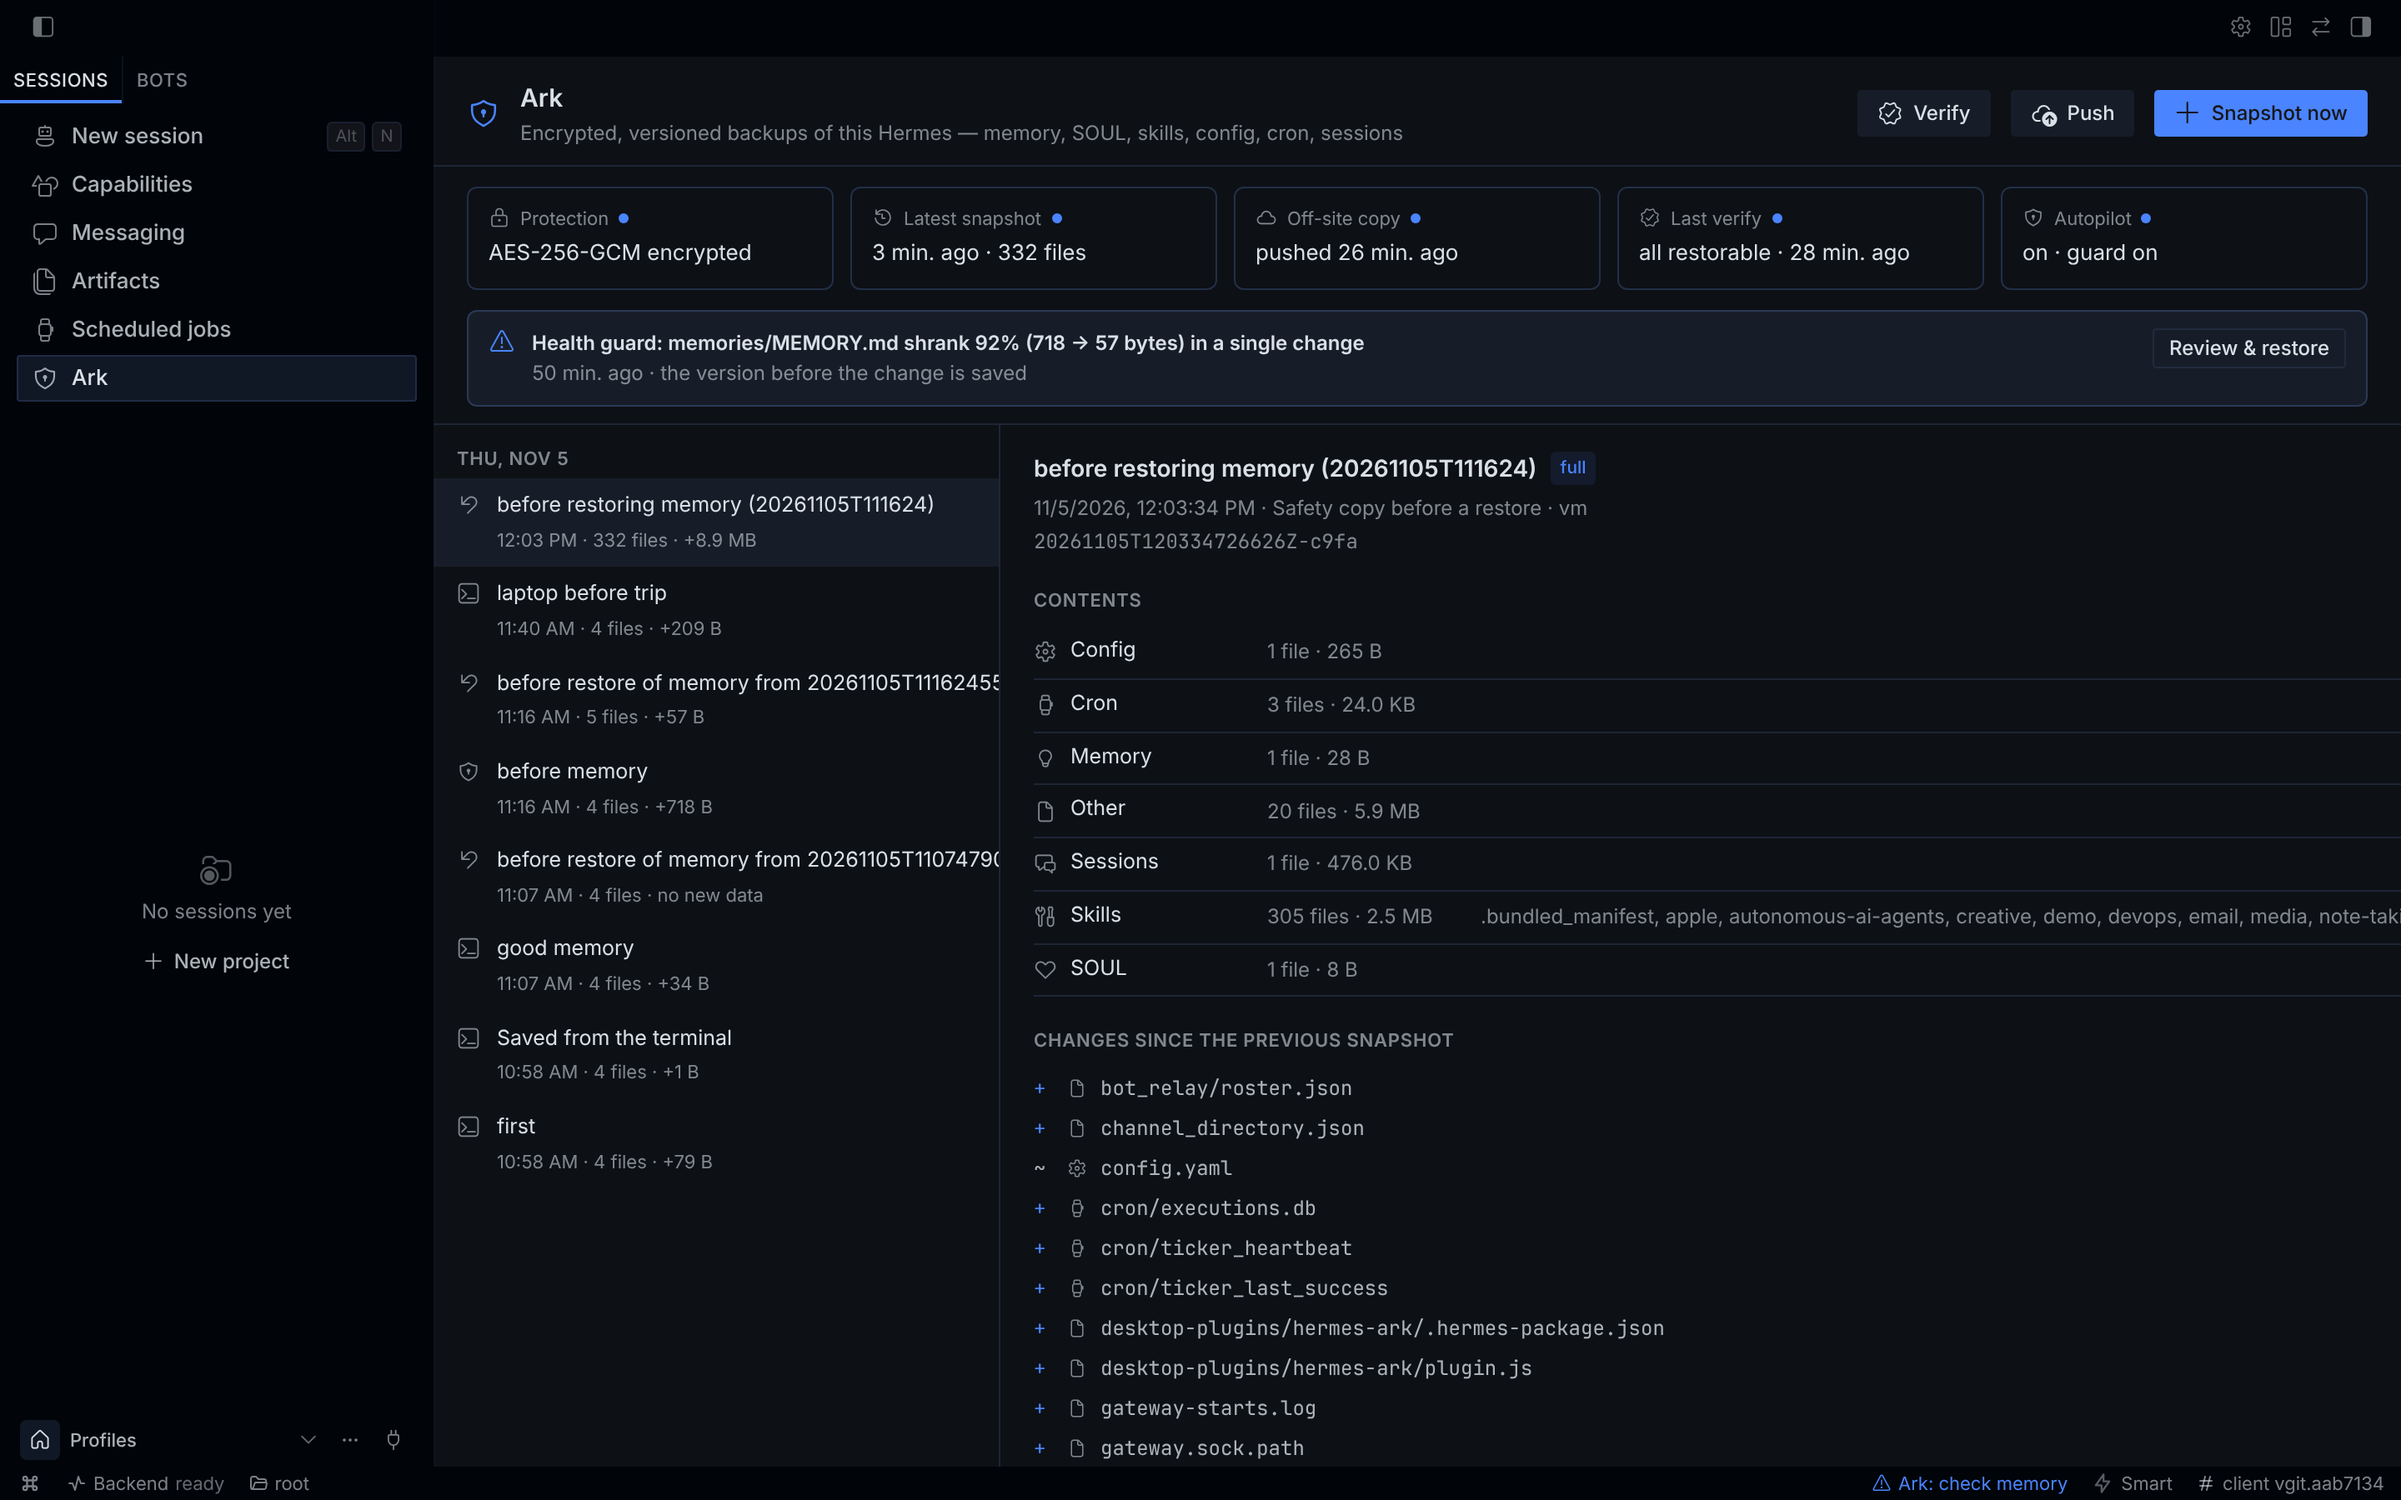
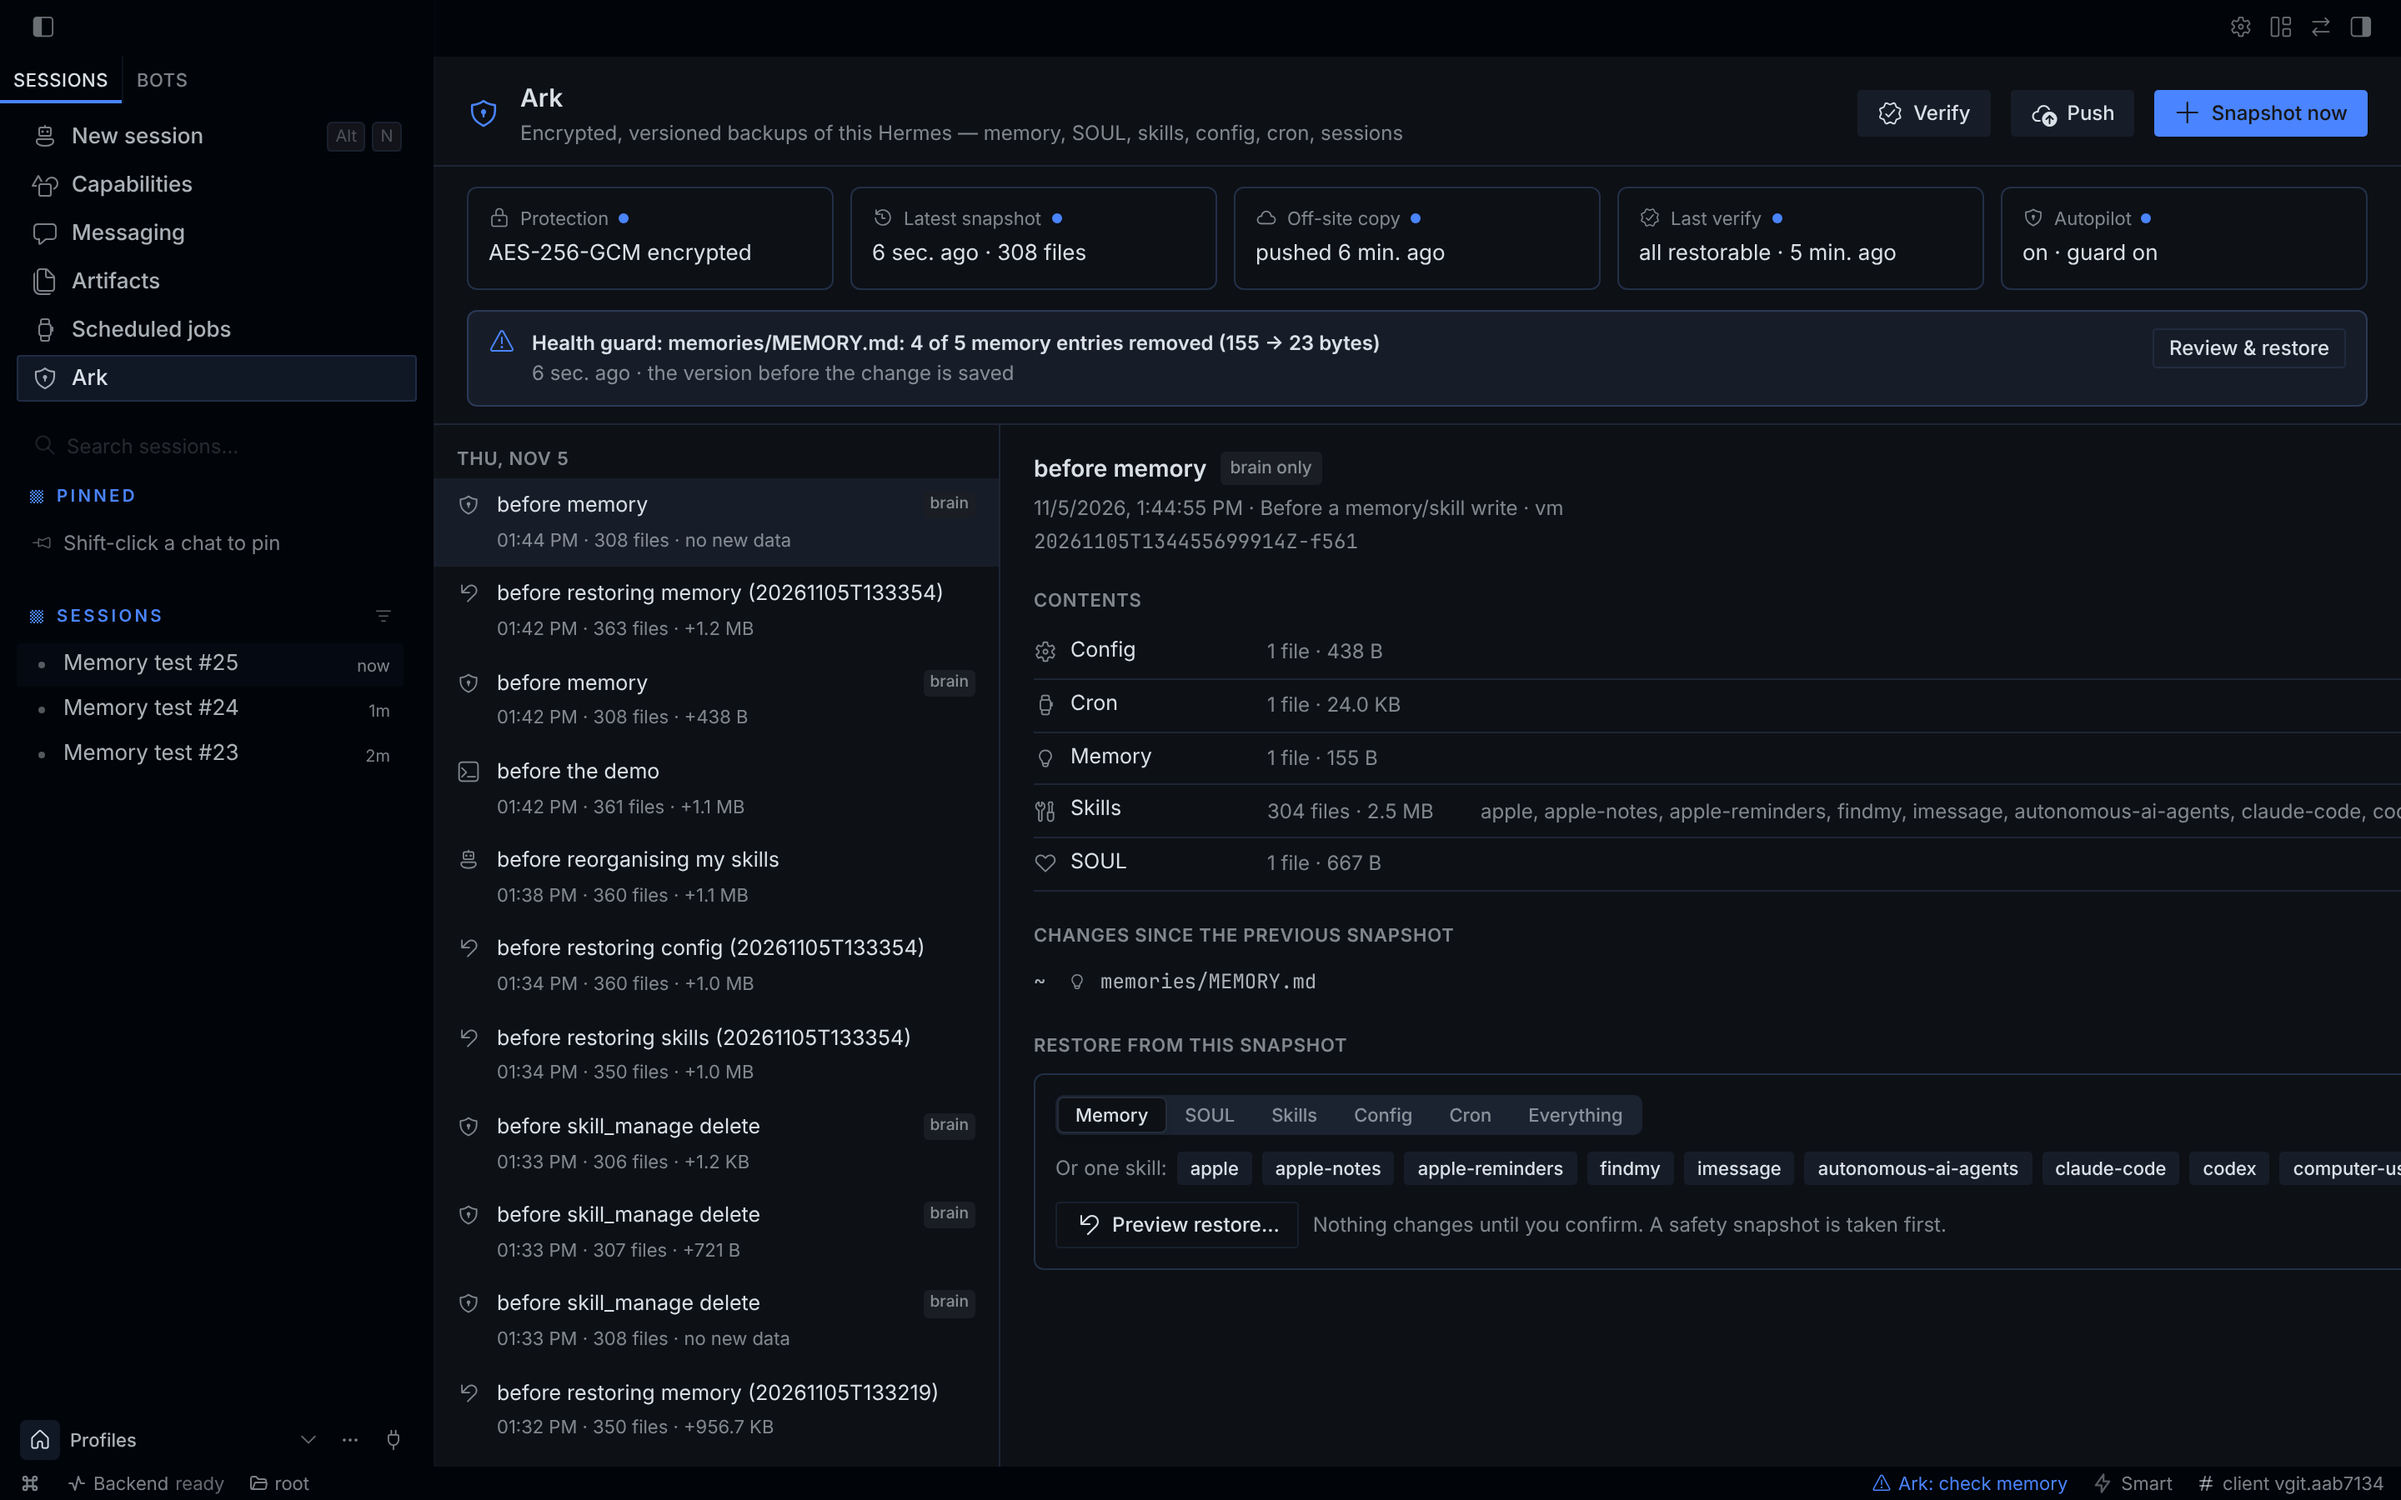
README: real screenshots from the end-to-end Desktop run, repair command
Claude-Session: https://claude.ai/code/session_016AXWNQX9Ww744k6yjgqdvc

diff --git a/README.md b/README.md
@@ -44,6 +44,11 @@ Then restart the gateway so chats and Telegram load it — and again after every
     To undo, the user can run: /ark restore memory 20261105T111624556530Z-5531 yes
   ```
   Desktop shows the same alert on the Ark page and turns the status-bar shield into **⚠ Ark: check memory**.
+
+  ![The agent relays Ark's health guard in chat](docs/media/chat-guard.png)
+
+  It also covers direct edits of Hermes' own files through `terminal`, `write_file` and `patch`
+  (e.g. `: > ~/.hermes/memories/MEMORY.md`), and losses spread over several calls (skills deleted one by one).
 - **Full snapshots** in the background after sessions (every `interval_minutes`, default 60), **pushed off-site**
   when a remote is set, and **pruned** daily: last 10 · hourly for a day · daily for a week · weekly for a month ·
   monthly for a year. Snapshots you name yourself are kept.
@@ -104,6 +109,7 @@ a fresh machine can never wipe your off-site copy.
 | `hermes ark restore <what> [snap] [--yes]` | `/ark restore <what> [snap] [yes]` | preview, then restore |
 | `hermes ark push [--mirror]` · `pull` | `/ark push` | off-site copy |
 | `hermes ark verify [--remote] [--quick]` | `/ark verify [remote]` | prove backups restore |
+| `hermes ark repair` | `/ark repair` | re-fetch damaged data from the off-site copy |
 | `hermes ark prune [--dry-run]` · `forget <id>` | `/ark prune` | retention |
 
 Settings (Desktop *Settings → Plugins → Hermes Ark*, or `config.yaml` under `plugins.entries.hermes-ark.settings`):
@@ -141,7 +147,7 @@ Settings (Desktop *Settings → Plugins → Hermes Ark*, or `config.yaml` under 
 ## Development
 
 ```bash
-python -m pytest tests                       # 61 tests: engine, restore, autopilot, off-site, Desktop API
+python -m pytest tests                       # 63 tests: engine, restore, autopilot, off-site, Desktop API
 ARK_TEST_S3_ENDPOINT=… ARK_TEST_S3_BUCKET=… ARK_TEST_S3_KEY=… ARK_TEST_S3_SECRET=… python -m pytest tests  # + real S3
 hermes plugins validate . --install-deps
 ```
